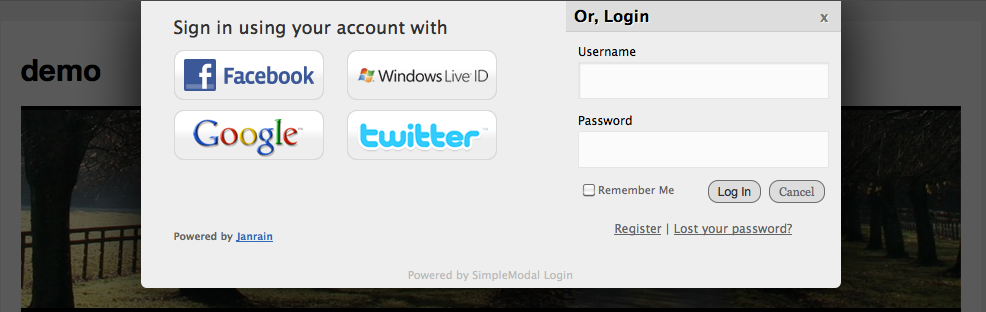
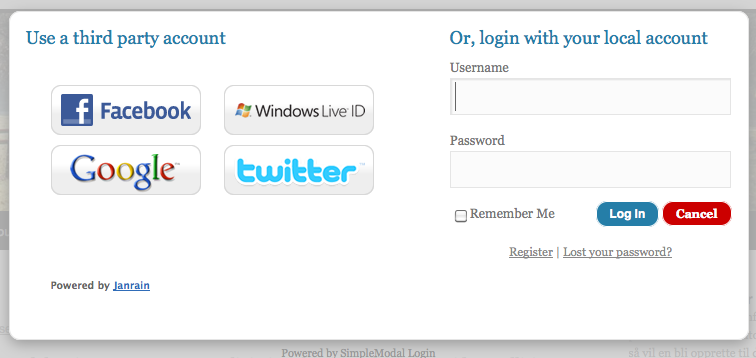
rewrote to support header for the janrain engage widget
git-svn-id: https://plugins.svn.wordpress.org/simplemodal-janrain-engage/trunk@323381 b8457f37-d9ea-0310-8a92-e5e31aec5664

diff --git a/ps_simplemodal_janrain_engage.php b/ps_simplemodal_janrain_engage.php
@@ -3,13 +3,14 @@
 Plugin Name: SimpleModal Janrain Engage
 Plugin URI: http://soderlind.no/archives/2010/12/03/simplemodal-janrain-engage/
 Description: Adds Janrain Engage (rpx) to SimpleModal Login. The Janrain Engage and SimpleModal Login plugins must be installed and working.
-Version: 1.1.1
+Version: 1.2.0
 Author: PerS
 Author URI: http://soderlind.no
 */
 /*
 
 Changelog:
+v1.2.0 I should have read the Janroin Engage doc a litle better, discovered a paramenter for the inline widget and "had" to rewrite the plugin. Now you can change the heading above the Janrain Engage widget using the ps_simplemodal_janrain_engage.pot file
 v1.1.1 Minor style adjustment
 v1.1: Added language support for the Janrain Engange embedded widget and updated the ps_simplemodal_janrain_engage.pot file
 v1.0: Initial release
@@ -105,15 +106,16 @@ if (!class_exists('ps_simplemodal_janrain_engage')) {
 			add_filter('simplemodal_registration_form', array(&$this,'ps_simplemodal_janrain_engage_registration_form'));
 			add_filter('simplemodal_reset_form', array(&$this,'ps_simplemodal_janrain_engage_reset_form'));		    
 		}
-
-		
+            
+ 		
 		function ps_simplemodal_janrain_engage_init() {
 			// remove Janrain Engage default login and register form buttons
 			remove_action('login_head',   'rpx_login_head');
 		    remove_action('login_form',    'rpx_login_form');
-		    remove_action('register_form', 'rpx_register_form');
+		    remove_action(RPX_REGISTER_FORM_ACTION_NAME, 'rpx_register_form');
 		    remove_action('wp_head', 'rpx_login_head');
 			remove_action('wp_footer', 'rpx_wp_footer');
+		    remove_action('register_form', 'rpx_login_form');
 			
 			wp_register_style('ps_simplemodal_janrain_engage_style',  $this->url . "?ps_simplemodal_janrain_engage_style",'1.1');
 	    }
@@ -125,6 +127,7 @@ if (!class_exists('ps_simplemodal_janrain_engage')) {
 			}
 		}
 
+
 		function ps_simplemodal_janrain_engange_locale() {
 			$locale = get_locale();
 			if (array_key_exists( $locale , $this->wordpress_janrain_locales )) {
@@ -134,6 +137,7 @@ if (!class_exists('ps_simplemodal_janrain_engage')) {
 			}
 		}
 
+
 		function ps_simplemodal_janrain_engage_login_form($form) {
 			$users_can_register = get_option('users_can_register') ? true : false;
 			$options = get_option('simplemodal_login_options');
@@ -142,13 +146,14 @@ if (!class_exists('ps_simplemodal_janrain_engage')) {
 		  	if ($rpx_api_key != ''){
 		    	$rpx_rp = rpx_get_rp($rpx_api_key);
 			}
-		
+
 			$output = sprintf('
-		<div id="modalrpx" style="float:left;padding:8px;margin-right:0 auto;">
-		<iframe src="%s://%s/openid/embed?token_url=%s&language_preference=%s" scrolling="no" frameBorder="no" allowtransparency="true" style="width:350px;height:260px;margin:0;padding:0;"></iframe>
-		</div>
-		<div style="float:right;width=350px;display:block;">
 		<form name="loginform" id="loginform" action="%s" method="post">
+		<div id="modalrpx" style="float:left;padding:0;margin-right:0 auto;">
+		<div class="title">%s</div>
+		<iframe src="%s://%s/openid/embed?token_url=%s&language_preference=%s&flags=hide_sign_in_with" scrolling="no" frameBorder="no" allowtransparency="true" style="width:350px;height:260px;margin:0;padding:0;"></iframe>
+		</div>
+		<div style="float:right;width=350px;">
 			<div class="title">%s </div>
 			<div class="simplemodal-login-fields">
 			<p>
@@ -159,12 +164,13 @@ if (!class_exists('ps_simplemodal_janrain_engage')) {
 				<label>%s<br />
 				<input type="password" name="pwd" class="user_pass input" value="" size="20" tabindex="20" /></label>
 			</p>',
+				site_url('wp-login.php', 'login_post'),
+				__('Use a third party account',$this->localizationDomain),
 				$rpx_rp['realmScheme'],
 				$rpx_rp['realm'],
 				RPX_TOKEN_URL,
 				$this->ps_simplemodal_janrain_engange_locale(),
-				site_url('wp-login.php', 'login_post'),
-				__('Or, Login', $this->localizationDomain),
+				__('Or, login with your local account', $this->localizationDomain),
 				__('Username', $this->localizationDomain),
 				__('Password', $this->localizationDomain)
 			);
@@ -208,8 +214,8 @@ if (!class_exists('ps_simplemodal_janrain_engage')) {
 			</p>
 			</div>
 			<div class="simplemodal-login-activity" style="display:none;"></div>
-		</form>
-		</div>';
+			</div>
+		</form>';
 
 			return $output;
 		}
@@ -218,10 +224,19 @@ if (!class_exists('ps_simplemodal_janrain_engage')) {
 		function ps_simplemodal_janrain_engage_registration_form() {
 			$users_can_register = get_option('users_can_register') ? true : false;
 			$options = get_option('simplemodal_login_options');
+			$rpx_api_key = get_option(RPX_API_KEY_OPTION);
+		  	if ($rpx_api_key == ''){ $rpx_api_key = strip_tags($_POST[RPX_API_KEY_OPTION]); }
+		  	if ($rpx_api_key != ''){
+		    	$rpx_rp = rpx_get_rp($rpx_api_key);
+			}
 			$output .= sprintf('
-
-		<div style="float:right;width=350px;display:block;">
 		<form name="registerform" id="registerform" action="%s" method="post">
+		<div id="modalrpx" style="float:left;padding:0;margin-right:0 auto;">
+		<div class="title">%s</div>
+		<iframe src="%s://%s/openid/embed?token_url=%s&language_preference=%s&flags=hide_sign_in_with" scrolling="no" frameBorder="no" allowtransparency="true" style="width:350px;height:260px;margin:0;padding:0;"></iframe>
+		</div>
+		<div style="float:right;width=350px;">
+		
 			<div class="title">%s</div>
 			<div class="simplemodal-login-fields">
 			<p>
@@ -233,7 +248,12 @@ if (!class_exists('ps_simplemodal_janrain_engage')) {
 				<input type="text" name="user_email" class="user_email input" value="" size="25" tabindex="20" /></label>
 			</p>',
 				site_url('wp-login.php?action=register', 'login_post'),
-				__('Or, Register', $this->localizationDomain),
+				__('The easy way',$this->localizationDomain),
+				$rpx_rp['realmScheme'],
+				$rpx_rp['realm'],
+				RPX_TOKEN_URL,
+				$this->ps_simplemodal_janrain_engange_locale(),
+				__('Or, register for a local account', $this->localizationDomain),
 				__('Username', $this->localizationDomain),
 				__('E-mail', $this->localizationDomain)
 			);
@@ -269,7 +289,9 @@ if (!class_exists('ps_simplemodal_janrain_engage')) {
 			</p>
 			</div>
 			<div class="simplemodal-login-activity" style="display:none;"></div>
-		</form></div>';
+			
+		</div>
+		</form>';
 
 			return $output;
 		}
@@ -280,8 +302,9 @@ if (!class_exists('ps_simplemodal_janrain_engage')) {
 			$options = get_option('simplemodal_login_options');
 			$output .= sprintf('
 
-		<div style="float:right;width=350px;display:block;">
+		
 		<form name="lostpasswordform" id="lostpasswordform" action="%s" method="post">
+		
 			<div class="title">%s</div>
 			<div class="simplemodal-login-fields">
 			<p>
@@ -319,7 +342,7 @@ if (!class_exists('ps_simplemodal_janrain_engage')) {
 			</p>
 			</div>
 			<div class="simplemodal-login-activity" style="display:none;"></div>
-		</form></div>';
+		</form>';
 
 			return $output;
 		}
@@ -482,9 +505,9 @@ if (isset($_GET['ps_simplemodal_janrain_engage_style'])) {
 * @author Per Soderlind - soderlind.no
 */
 
-#simplemodal-login-container {width:725px;background:#fff; border:1px solid #e5e5e5; -moz-border-radius:11px; -webkit-border-radius:11px; border-radius:5px; -moz-box-shadow:rgba(153,153,153,1) 0 4px 18px; -webkit-box-shadow:rgba(153,153,153,1) 0 4px 18px; box-shadow:rgba(153,153,153,1) 0 4px 18px;}
-#simplemodal-login-container form {border:0; -moz-box-shadow:none; -webkit-box-shadow:none; box-shadow:none;}
-.simplemodal-login-credit {clear:both;width:700px;font-size:11px; padding-top:4px; text-align:center; bottom:0;}
+.simplemodal-container, #simplemodal-login-container {width:740px;}
+.simplemodal-container form, #simplemodal-login-container form {overflow:auto;}
+.simplemodal-login-credit {width:700px; padding-top:4px; text-align:center; bottom:0;}
 
 
 ENDCSS;
